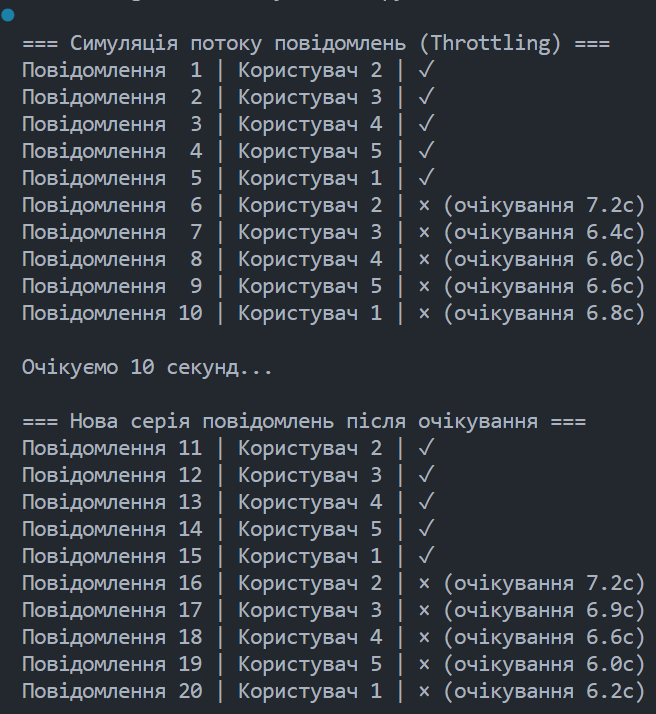
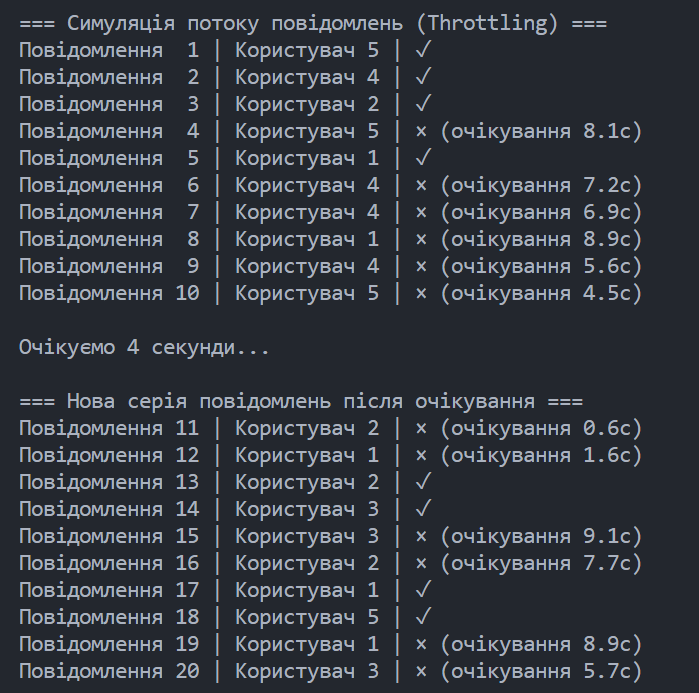
upd2

Changed region(s): [[0.0305, 0.4848, 1.0, 1.0], [0.0305, 0.0, 1.0, 0.4545], [0.0, 0.0, 0.0305, 0.0303]]

diff --git a/part2.py b/part2.py
@@ -8,43 +8,43 @@ class ThrottlingRateLimiter:
         self.user_last_message_time: Dict[str, float] = {}
 
     def can_send_message(self, user_id: str) -> bool:
-        """Перевіряє, чи може користувач надіслати повідомлення."""
-        last_time = self.user_last_message_time.get(user_id, 0)
+        last_time = self.user_last_message_time.get(user_id)
+        if last_time is None:
+            return True
         return (time.time() - last_time) >= self.min_interval
 
     def record_message(self, user_id: str) -> bool:
-        """Записує час відправки повідомлення користувачем, якщо це дозволено."""
         if self.can_send_message(user_id):
             self.user_last_message_time[user_id] = time.time()
             return True
         return False
 
     def time_until_next_allowed(self, user_id: str) -> float:
-        """Обчислює час до можливості відправлення наступного повідомлення."""
-        last_time = self.user_last_message_time.get(user_id, 0)
-        elapsed = time.time() - last_time
-        return max(0, self.min_interval - elapsed)
+        last_time = self.user_last_message_time.get(user_id)
+        if last_time is None:
+            return 0.0
+        elapsed_time = time.time() - last_time
+        return max(0.0, self.min_interval - elapsed_time)
 
 def test_throttling_limiter():
     limiter = ThrottlingRateLimiter(min_interval=10.0)
+    test_users = [str(i) for i in range(1, 6)]
 
     print("\n=== Симуляція потоку повідомлень (Throttling) ===")
     for message_id in range(1, 11):
-        user_id = str(message_id % 5 + 1)
+        user_id = random.choice(test_users)
         result = limiter.record_message(user_id)
         wait_time = limiter.time_until_next_allowed(user_id)
-
         print(f"Повідомлення {message_id:2d} | Користувач {user_id} | "
               f"{'✓' if result else f'× (очікування {wait_time:.1f}с)'}")
-
         time.sleep(random.uniform(0.1, 1.0))
 
-    print("\nОчікуємо 10 секунд...")
-    time.sleep(10)
+    print("\nОчікуємо 4 секунди...")
+    time.sleep(4)
 
     print("\n=== Нова серія повідомлень після очікування ===")
     for message_id in range(11, 21):
-        user_id = str(message_id % 5 + 1)
+        user_id = random.choice(test_users)
         result = limiter.record_message(user_id)
         wait_time = limiter.time_until_next_allowed(user_id)
         print(f"Повідомлення {message_id:2d} | Користувач {user_id} | "
